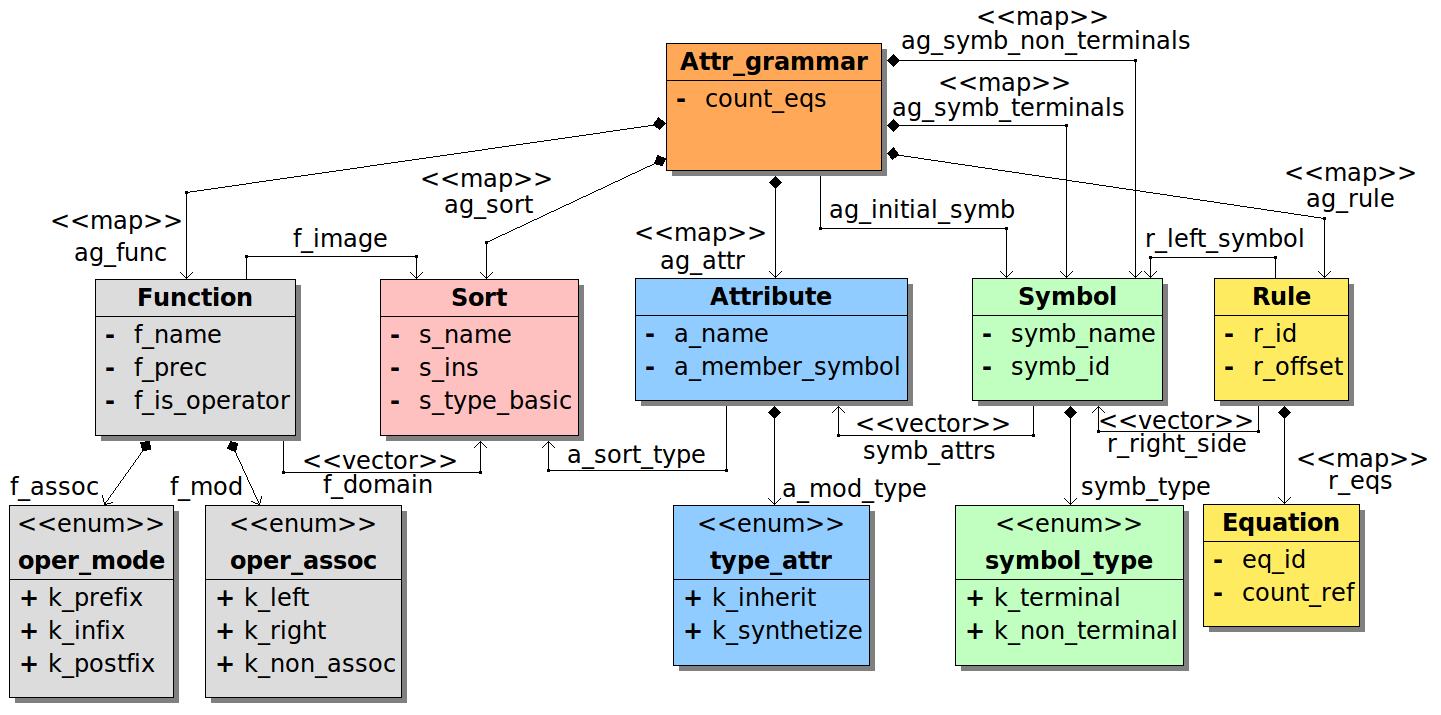
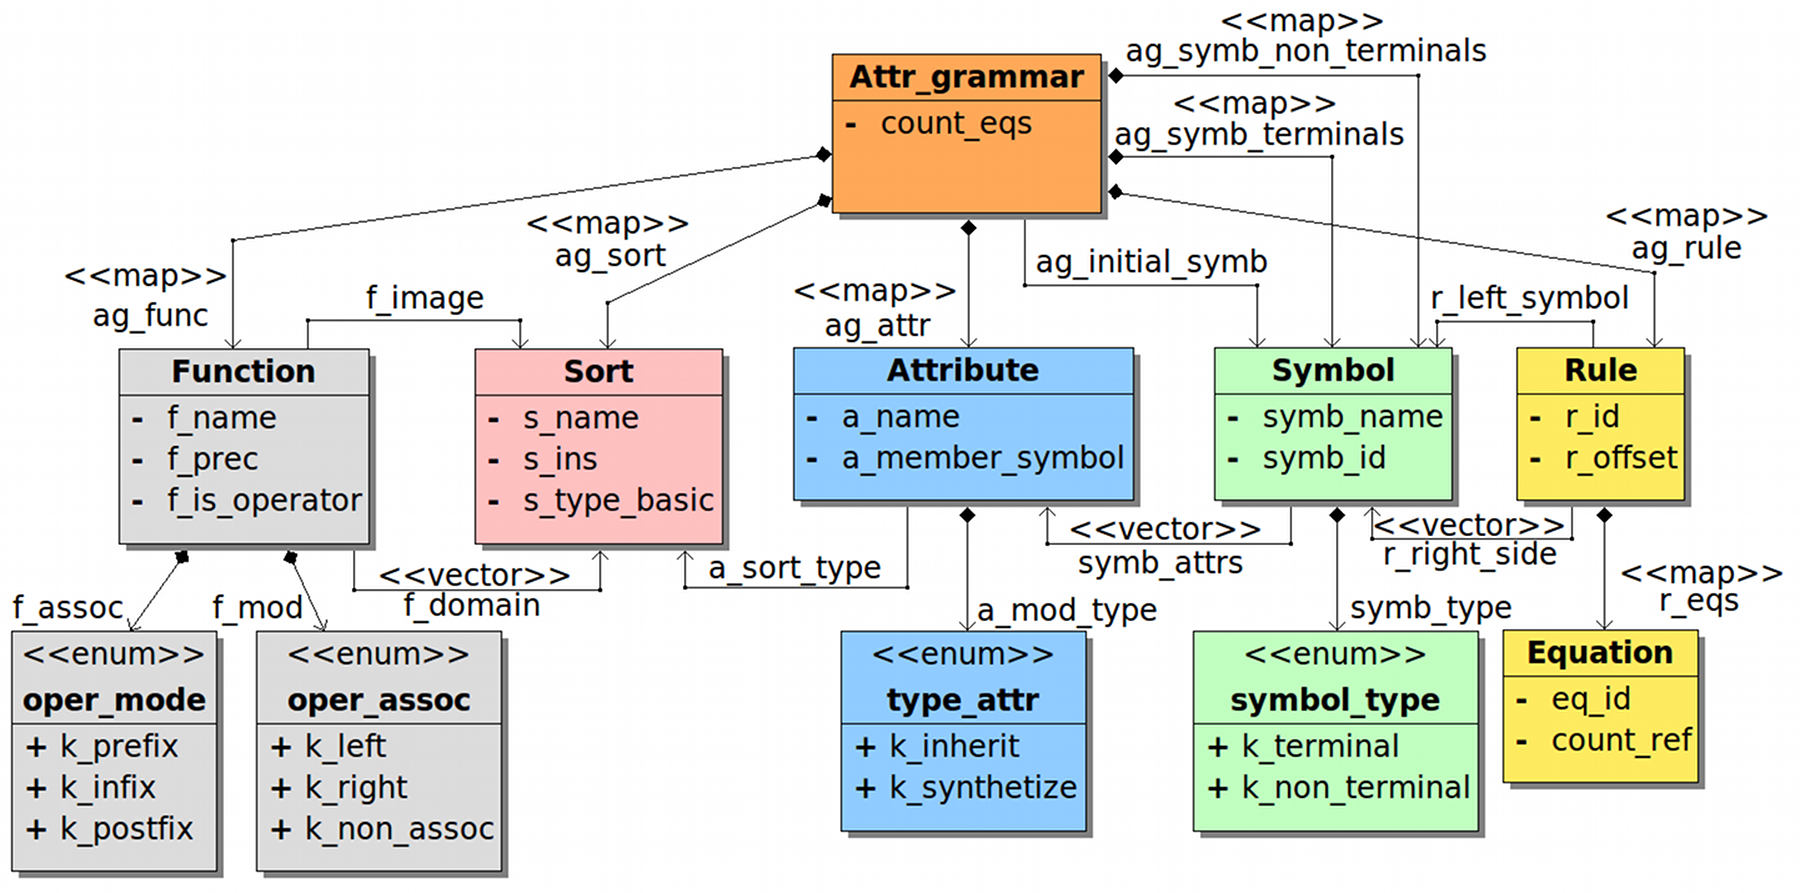
presentacion agregados planes proyectados. En informe cambiadas algunas resoluciones de imagenes y agregada la arquitectura simple

diff --git a/branches/presentacion/presentacion.tex b/branches/presentacion/presentacion.tex
@@ -941,9 +941,11 @@ La salida de \maggen\ cuando se detecta ciclicidad, es:
 \frame{
     \frametitle{\maggen: Ejemplo de plan de evaluaci\'on}
 
-    \begin{center}
-    	\includegraphics[scale=0.32]{./23_plan_graph.png}
-    \end{center}
+    \begin{tabular}{c|l}
+    	\multirow{3}{*}{\includegraphics[width=6cm]{./23_plan_graph.png}} & \includegraphics[width=5cm]{./plan_proj1.png} \\ \cline{2-2}
+                                                                            & \includegraphics[width=5cm]{./plan_proj2.png} \\ \cline{2-2}
+                                                                            & \includegraphics[width=5cm]{./plan_proj3.png} \\
+    \end{tabular}
 }
 
 \subsection*{Secuencia de visita}

diff --git a/branches/informe/Appendix1.tex b/branches/informe/Appendix1.tex
@@ -164,6 +164,12 @@ Los siguientes diagramas corresponden a cada capa.
 \end{figure}
 
 \begin{figure}[!ht]\centering
+\includegraphics[width=450pt, height=441pt]{diagramas/arquitectura_simple.png}
+% \includegraphics[width=300pt, height=395pt]{clases_full.png}
+\caption{\label{fig:arquitec-full}Arquitectura simplificada de \maggen.}
+\end{figure}
+
+\begin{figure}[!ht]\centering
 \includegraphics[width=450pt, height=589pt]{diagramas/arquitectura.png}
 % \includegraphics[width=300pt, height=395pt]{clases_full.png}
 \caption{\label{fig:arquitec-full}Arquitectura completa de \maggen.}
